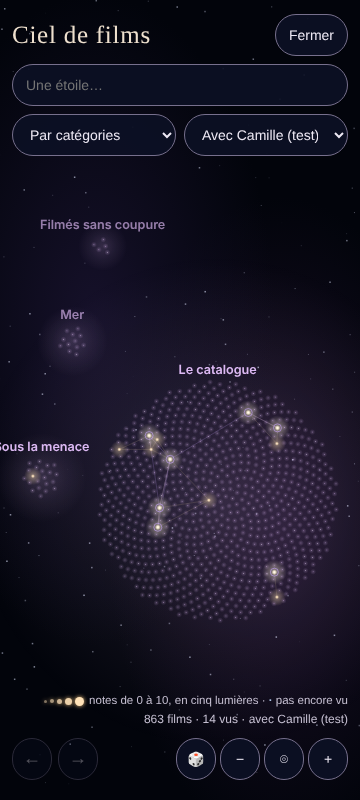
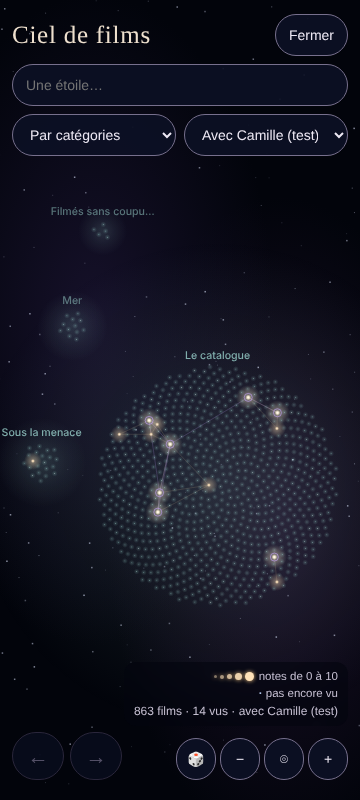
Ciné-club : idées du 24 octobre au soir (filtres, express, ciel)
Claude-Session: https://claude.ai/code/session_01SvDWCy7QeYxQDQ8J7KSUQg

diff --git a/carnet-de-films/index.html b/carnet-de-films/index.html
@@ -58,6 +58,14 @@ header.top::after{content:"";justify-self:center;width:min(176px,55%);height:8px
 .chip.env[aria-pressed="true"]{background:var(--k-s-F9E3A8);color:var(--k-s-4A3300);border-color:var(--k-b-C8963A);border-style:solid;}
 .lbl{flex:none;align-self:center;font-size:12px;font-weight:600;letter-spacing:.06em;text-transform:uppercase;color:var(--muted);padding-right:2px;}
 #filters{flex-wrap:nowrap;gap:5px;}
+.fwrap{position:relative;display:flex;}
+.fbtn{white-space:nowrap;}
+.fbtn.on{border-color:var(--gold);}
+#filters.fmenu{position:absolute;z-index:12;top:calc(100% + 6px);right:0;display:grid;gap:6px;min-width:180px;padding:8px;background:var(--paper);border:1.5px solid var(--line);border-radius:14px;box-shadow:0 10px 30px -8px rgba(0,0,0,.35);}
+#filters.fmenu[hidden]{display:none!important;}
+html body #filters.fmenu:not([hidden]){display:grid;}
+#filters.fmenu .chip{justify-content:flex-start;text-align:left;font-size:14px;padding:9px 12px;}
+body.autre .fwrap{display:none;}
 #filters .chip{padding:7px 9px;font-size:12.5px;}
 @media (max-width:345px){#filters{flex-wrap:wrap;}}
 #envies .chip{padding:7px 11px;font-size:13px;}
@@ -1040,11 +1048,16 @@ section[data-auto="classement"] .stars button{transform:scale(.88);}
 .xp-seen{display:grid;grid-template-columns:repeat(3,minmax(0,1fr));gap:8px;}
 .xp-b{min-height:54px;border:1.5px solid var(--line);border-radius:14px;background:var(--paper);color:var(--ink);font:600 16px/1.1 var(--font);cursor:pointer;}
 .xp-b.no{min-height:50px;}
-.xp-two{display:grid;grid-template-columns:1fr 1fr;gap:8px;}
-.xp-syn{margin:2px 0 0;max-width:36em;font-size:14.5px;line-height:1.4;color:var(--ink);opacity:.86;}
+.xp-syn{margin:0;max-width:34em;font-size:13px;line-height:1.35;color:var(--muted);}
+.xp-pw{position:relative;}
+.xp-list{position:absolute;top:8px;right:-46px;width:34px;height:34px;border-radius:50%;border:1.5px solid var(--line);background:var(--paper);color:var(--muted);font:600 18px/1 var(--font);cursor:pointer;opacity:.85;}
+.xp-list[aria-pressed="true"]{color:var(--ink);border-color:var(--gold);opacity:1;}
+.xp-n10{display:grid;grid-template-columns:repeat(10,minmax(0,1fr));gap:4px;}
+.xp-n10 button{min-height:34px;border:1px solid var(--line);border-radius:8px;background:transparent;color:var(--muted);font:600 13px/1 var(--font);cursor:pointer;padding:0;}
+.xp-small button[aria-expanded="true"]{color:var(--ink);}
 .xp-seen .xp-b:nth-child(1){border-color:var(--gold);}
-.xp-small{display:flex;justify-content:space-between;gap:6px;flex-wrap:wrap;}
-.xp-small button{border:0;background:transparent;color:var(--muted);font:600 13.5px/1.2 var(--font);padding:8px 4px;cursor:pointer;}
+.xp-small{display:flex;justify-content:center;gap:0 10px;flex-wrap:wrap;}
+.xp-small button{border:0;background:transparent;color:var(--muted);font:600 13px/1.2 var(--font);padding:7px 3px;cursor:pointer;}
 .xp-small button:disabled{opacity:.35;}
 .xp-imp{justify-self:center;border:0;background:transparent;color:var(--muted);text-decoration:underline;font:500 13px/1.3 var(--font);cursor:pointer;padding:6px;}
 .xp-reward{display:grid;gap:10px;}
@@ -1275,19 +1288,34 @@ html.th-neon .sky{background:radial-gradient(ellipse at 26% 40%,#16112a 0,transp
 .sky-legend .sl-lv i:nth-child(1){width:3px;height:3px;opacity:.5;}.sky-legend .sl-lv i:nth-child(2){width:4px;height:4px;opacity:.65;}.sky-legend .sl-lv i:nth-child(3){width:5px;height:5px;opacity:.8;}.sky-legend .sl-lv i:nth-child(4){width:7px;height:7px;opacity:.92;}.sky-legend .sl-lv i:nth-child(5){width:9px;height:9px;}
 .sky-zoom{position:absolute;bottom:max(20px,env(safe-area-inset-bottom));right:18px;display:flex;gap:6px;}
 .sky-zoom button{min-width:42px;padding:8px;}
-.sky-info{position:absolute;right:18px;bottom:calc(max(20px,env(safe-area-inset-bottom)) + 52px);max-width:min(330px,calc(100% - 36px));display:grid;gap:3px;justify-items:end;text-align:right;pointer-events:none;}
-.sky-legend{margin:0;font-size:12.5px;line-height:1.4;color:#c5bfd1;}
+.sky-info{position:absolute;right:18px;bottom:calc(max(20px,env(safe-area-inset-bottom)) + 54px);display:grid;gap:2px;justify-items:end;text-align:right;pointer-events:none;padding:6px 10px;border-radius:12px;background:rgba(4,5,14,.62);-webkit-backdrop-filter:blur(4px);backdrop-filter:blur(4px);}
+.sky-legend{margin:0;font-size:12px;line-height:1.45;color:#c5bfd1;display:grid;justify-items:end;}
+.sky-legend > span{white-space:nowrap;}
 .sky-legend .sl-b{color:#ffe1a7;}.sky-legend .sl-v{color:#f7d5aa;font-size:10px;}.sky-legend .sl-p{color:#abc1e3;font-weight:700;}
 .sky-caption{font-size:12px;color:#c5bfd1;}
 .sky-nav{position:absolute;left:18px;bottom:max(20px,env(safe-area-inset-bottom));display:flex;gap:6px;}
-.sky-nav button{min-width:46px;padding:8px;font-size:18px;}
-.sky-nav button:disabled{opacity:.35;cursor:default;}
-@media(max-width:600px){.sky-info{right:12px;font-size:11.5px;}.sky-legend{font-size:11.5px;}.sky-nav{left:12px;}.sky-zoom{right:12px;gap:5px;}.sky-zoom button,.sky-nav button{min-width:40px;}}
+.sky .sky-nav button{min-width:52px;min-height:48px;padding:8px;font:700 21px/1 var(--font);background:#ffe6b0;color:#241500;border:0;box-shadow:0 0 16px rgba(255,220,160,.45);}
+.sky .sky-nav button:disabled{background:#0c1024e8;color:#77708d;border:1px solid #3c3650;box-shadow:none;opacity:.7;cursor:default;}
+html.sky-on.skycard .sky-nav{bottom:calc(var(--rsh,0px) + 10px);}
+@media(max-width:600px){.sky-info{right:12px;}.sky-legend{font-size:11.5px;}.sky-nav{left:12px;}.sky-zoom{right:12px;gap:5px;}.sky-zoom button{min-width:40px;}}
 /* Fiche ouverte depuis le ciel : compacte et translucide, le ciel reste visible et explorable au-dessus (ou à gauche). */
 html.sky-on #rsheet{max-height:min(52vh,460px);overflow:auto;gap:7px;padding:12px 14px calc(12px + env(safe-area-inset-bottom));background:color-mix(in srgb,var(--paper) 84%,transparent);-webkit-backdrop-filter:blur(10px);backdrop-filter:blur(10px);box-shadow:0 -10px 40px rgba(0,0,0,.45);}
 html.sky-on #rsheet .rs-t h3{font-size:19px;}
-html.sky-on #rsheet .rs-p{font-size:14.5px;}
-html.sky-on #rsheet .rs-seg button{font-size:13.5px;padding:9px 10px;}
+html.sky-on #rsheet .rs-k{padding-right:46px;}
+html.sky-on #rsheet #rsM{font-size:12px;opacity:.85;}
+html.sky-on #rsheet .rs-p{font-size:16px;line-height:1.45;margin:0;}
+html.sky-on #rsDetails > summary{display:none;}
+html.sky-on #rsheet #rsE{display:none;}
+html.sky-on #rsheet .rs-n{padding:5px 8px;gap:5px;border-width:1px;}
+html.sky-on #rsheet .rs-n .rs-l{font-size:12.5px;}
+html.sky-on #rsheet .rs-n b{font-size:17px;}
+html.sky-on #rsheet .rs-n .nstep{width:32px;height:32px;font-size:16px;}
+html.sky-on #rsheet .rs-c{width:28px;height:28px;font-size:12.5px;}
+html.sky-on #rsheet .rs-seg button{font-size:12.5px;padding:7px 9px;}
+.rs-dice{position:absolute;top:10px;right:12px;width:40px;height:40px;border-radius:50%;border:1.5px solid var(--line);background:var(--paper);font-size:19px;line-height:1;cursor:pointer;padding:0;}
+.rs-dice[hidden]{display:none;}
+.rs-sky .rs-est{margin:2px 0 0;font-size:11.5px;color:var(--muted);}
+.rs-sky .fimg{margin:0;}
 html.sky-on #rsheet .plf-b button{min-height:42px;}
 @media(min-width:900px){html.sky-on #rsheet{left:auto;right:16px;bottom:16px;width:380px;max-height:calc(100vh - 120px);border-radius:18px;margin:0;}}
 .rs-sky{display:grid;gap:6px;}
@@ -1470,14 +1498,15 @@ html.sky-on #rsheet{z-index:50;}
     <div class="row-tools">
       <div class="qwrap"><div class="qsug" id="qSug" role="listbox" aria-label="Suggestions de films" hidden></div><input type="search" id="q" data-txph="recherche.champ" placeholder="Film, cinéaste, thème…" aria-label="Chercher un film, un·e cinéaste ou un thème"><button type="button" class="qx" id="qx" aria-label="Effacer la recherche" hidden>✕</button></div>
       <button type="button" class="view" id="view" aria-pressed="false" title="Tous les films à la suite, du plus au moins susceptible de te plaire" hidden>Tout classé</button>
-      <button type="button" class="dice" id="dice" aria-label="Un film au hasard" title="Un film au hasard" aria-haspopup="dialog"><span class="dico">🎲</span></button>
-    </div>
-    <div class="chips" id="filters" role="group" aria-label="Filtrer">
+      <div class="fwrap"><button type="button" class="chip fbtn" id="fBtn" aria-expanded="false" aria-controls="filters" aria-haspopup="true">Filtres ▾</button>
+    <div class="chips fmenu" id="filters" role="group" aria-label="Filtrer" hidden>
       <button class="chip" data-f="all" data-tx="filtre.all" aria-pressed="true" title="Tous les films">Tous</button>
-      <button class="chip" data-f="todo" data-tx="filtre.todo" aria-pressed="false" title="Films sans réponse" aria-label="Films sans réponse">❓ Sans réponse</button>
-      <button class="chip" data-f="rate" data-tx="filtre.rate" aria-pressed="false" title="Films vus, pas encore notés sur 10" aria-label="Films vus, pas encore notés sur 10">☆ Vus, pas notés</button>
+      <button class="chip" data-f="todo" data-tx="filtre.todo" aria-pressed="false" title="Films sans réponse" aria-label="Films sans réponse">Sans réponse</button>
+      <button class="chip" data-f="rate" data-tx="filtre.rate" aria-pressed="false" title="Films vus, pas encore notés sur 10" aria-label="Films vus, pas encore notés sur 10">Vus, pas notés</button>
       <button class="chip" data-f="seen" data-tx="filtre.seen" aria-pressed="false" title="Films déjà vus">Vus</button>
       <button class="chip" data-f="no" data-tx="filtre.no" aria-pressed="false">À voir</button>
+    </div></div>
+      <button type="button" class="dice" id="dice" aria-label="Un film au hasard" title="Un film au hasard" aria-haspopup="dialog"><span class="dico">🎲</span></button>
     </div>
     <div class="chips" id="envies" role="group" aria-label="Rechercher par envies" hidden></div>
     <p class="mvinfo" id="mvinfo" hidden></p>
@@ -1490,7 +1519,7 @@ html.sky-on #rsheet{z-index:50;}
 <section class="sky" id="sky" role="dialog" aria-modal="true" aria-labelledby="skyTitle" hidden>
   <canvas id="skyCanvas" tabindex="0" role="img" aria-label="Ciel de films. La recherche permet de choisir une étoile ; les flèches déplacent le ciel et les boutons changent le zoom."></canvas>
   <div class="sky-tools"><h2 id="skyTitle">Ciel de films</h2><div class="sky-search"><input type="search" id="skySearch" placeholder="Une étoile…" aria-label="Chercher un film dans le ciel" autocomplete="off" aria-controls="skyResults"><div class="sky-results" id="skyResults" hidden></div></div><select id="skyMode" aria-label="Ranger le ciel par"><option value="cat">Par catégories</option><option value="mv">Par courants</option><option value="dec">Par décennies</option></select><select id="skyMember" aria-label="Superposer le ciel d'un membre"><option value="">Mon ciel seul</option></select><button type="button" id="skyClose" aria-label="Fermer le ciel">Fermer</button></div>
-  <div class="sky-info"><p class="sky-legend"><span class="sl-lv" aria-hidden="true"><i></i><i></i><i></i><i></i><i></i></span> notes de 0 à 10, en cinq lumières · <span class="sl-p">·</span> pas encore vu</p><div class="sky-caption" id="skyCaption" role="status">Le ciel se dessine…</div></div><button type="button" class="sky-pick" id="skyPick" hidden></button><div class="sky-label" id="skyLabel" hidden></div>
+  <div class="sky-info"><p class="sky-legend"><span><span class="sl-lv" aria-hidden="true"><i></i><i></i><i></i><i></i><i></i></span> notes de 0 à 10</span><span><span class="sl-p">·</span> pas encore vu</span></p><div class="sky-caption" id="skyCaption" role="status">Le ciel se dessine…</div></div><button type="button" class="sky-pick" id="skyPick" hidden></button><div class="sky-label" id="skyLabel" hidden></div>
   <div class="sky-nav" role="group" aria-label="Endroits du ciel déjà visités"><button type="button" id="skyBack" aria-label="Revenir à l'endroit précédent" disabled>←</button><button type="button" id="skyFwd" aria-label="Aller à l'endroit suivant" disabled>→</button></div>
   <div class="sky-zoom"><button type="button" id="skyDice" aria-label="Un film pas encore vu dans cette constellation" title="Un film pas vu dans cette constellation">🎲</button><button type="button" id="skyOut" aria-label="Éloigner le ciel">−</button><button type="button" id="skyReset" aria-label="Retrouver tout le ciel">⌾</button><button type="button" id="skyIn" aria-label="Rapprocher le ciel">+</button></div>
 </section>
@@ -1536,7 +1565,7 @@ html.sky-on #rsheet{z-index:50;}
   <div class="plf-b" id="envDone" hidden><button type="button" class="plf-no" id="envClear">C'est envoyé : vider la liste</button></div>
 </div>
 <div class="sheet" id="rsheet" role="dialog" aria-modal="false" aria-labelledby="rs-h" hidden>
-  <div class="rs-k" id="rsK"></div>
+  <div class="rs-k" id="rsK"></div><button type="button" class="rs-dice" id="rsDice" hidden aria-label="Un autre film pas vu dans cette constellation" title="Un autre film pas vu ici">🎲</button>
   <div class="rs-t"><h3 id="rs-h"></h3><span class="estp" id="rsE" hidden></span></div>
   <div class="m" id="rsM"></div>
   <div id="rsAv"></div>
@@ -3730,7 +3759,7 @@ est + (ro ? '<span class="ro">' + ro + '</span>' : "") +
   function appCopy(x){ x = x || {}; return { t:Object.assign({}, x.t || {}), c:JSON.parse(JSON.stringify(x.c || {})), o:JSON.parse(JSON.stringify(x.o || {})) }; }
   var ED_TOP = [["header", "Titre du site", function(){ return [document.querySelector("header.top")]; }], ["bar", "Boutons, recherche et filtres", function(){ return [document.querySelector(".bar")]; }], ["toc", "Catégories", function(){ return [$("toc"), $("mvnav")]; }]];
   var ED_BAR = [["comptes", "Boutons (communauté, compte…)", function(){ return [document.querySelector(".ccbar")]; }], ["compteurs", "Compteurs", function(){ return [document.querySelector(".stats"), document.querySelector(".progress")]; }],
-    ["recherche", "Recherche", function(){ return [document.querySelector(".hint-q"), document.querySelector(".row-tools")]; }], ["filtres", "Filtres", function(){ return [$("filters"), $("envies"), $("mvinfo")]; }]];
+    ["recherche", "Recherche", function(){ return [document.querySelector(".hint-q"), document.querySelector(".row-tools")]; }], ["filtres", "Filtres", function(){ return [$("envies"), $("mvinfo")]; }]];
   var ED_COL = [["--bg", "Fond de la page"], ["--paper", "Fond des cartes"], ["--ink", "Texte"], ["--muted", "Texte secondaire"], ["--line", "Bordures"], ["--vu", "Couleur « Vu »"], ["--gold", "Étoiles et doré"]];
   function edOrder(list, saved){ var keys = list.map(function(x){ return x[0]; }), o = (saved || []).filter(function(k){ return keys.indexOf(k) >= 0; }); keys.forEach(function(k){ if (o.indexOf(k) < 0) o.push(k); }); return o; }
   function appApply(){
@@ -3930,11 +3959,15 @@ est + (ro ? '<span class="ro">' + ro + '</span>' : "") +
   function xpCardHtml(){
     var id = XP.q[XP.i], f = id && films[id];
     if (!f) return '<div class="xp-reward"><p class="xp-big">C\'est tout pour l\'instant !</p><p class="xp-note">Tu as répondu à tous les films proposés. Ta boussole est précise à ' + boussolePct(ratedCount()) + ' %.</p>' + xpRewardHtml().replace(/<button type="button" class="xp-main alt" data-xpgo="1">Continuer<\/button>/, "") + '</div>';
-    return '<div class="xp-card" data-film="' + esc(id) + '"><div class="xp-poster" data-id="' + esc(id) + '"><span>' + esc(f.t) + '</span></div>' +
+    // L'essentiel en grand : l'affiche, le titre et quatre boutons. Le reste (liste, note sur 10, oublié) reste discret, pour qui veut être plus précis.
+    var notes = ""; for (var n = 1; n <= 10; n++) notes += '<button type="button" data-xp="' + n + '" aria-label="Vu, noté ' + n + ' sur 10">' + n + '</button>';
+    return '<div class="xp-card" data-film="' + esc(id) + '"><div class="xp-pw"><div class="xp-poster" data-id="' + esc(id) + '"><span>' + esc(f.t) + '</span></div>' +
+      '<button type="button" class="xp-list" data-xplist="1" aria-pressed="' + !!LISTE[id] + '" aria-label="' + (LISTE[id] ? "Retirer de ma liste" : "Ajouter à ma liste") + '" title="' + (LISTE[id] ? "Dans ma liste" : "Ajouter à ma liste") + '">' + (LISTE[id] ? "✓" : "+") + '</button></div>' +
       '<h3>' + esc(f.t) + '</h3><p class="xp-meta">' + esc([f.y, f.d].filter(Boolean).join(" · ")) + '</p>' + (xpSyn(f) ? '<p class="xp-syn">' + esc(xpSyn(f)) + '</p>' : "") + '</div>' +
-      '<div class="xp-btns"><div class="xp-two"><button type="button" class="xp-b no" data-xp="pv">Pas vu</button><button type="button" class="xp-b no" data-xp="ou">Vu mais oublié</button></div>' +
+      '<div class="xp-btns"><button type="button" class="xp-b no" data-xp="pv">Pas vu</button>' +
       '<div class="xp-seen"><button type="button" class="xp-b" data-xp="9">Adoré</button><button type="button" class="xp-b" data-xp="7">Bien</button><button type="button" class="xp-b" data-xp="4">Pas aimé</button></div></div>' +
-      '<div class="xp-small"><button type="button" data-xpundo="1"' + (XP.hist.length ? "" : " disabled") + '>← Annuler</button><button type="button" data-xp="vu">Vu, sans avis</button><button type="button" data-xp="skip">Passer</button></div>';
+      '<div class="xp-small"><button type="button" data-xpundo="1"' + (XP.hist.length ? "" : " disabled") + '>← Annuler</button><button type="button" data-xp="vu">Vu, sans avis</button><button type="button" data-xp="ou">Vu mais oublié</button><button type="button" data-xpn="1" aria-expanded="' + !!XP.notes + '">Noter /10</button><button type="button" data-xp="skip">Passer</button></div>' +
+      (XP.notes ? '<div class="xp-n10" role="group" aria-label="Vu, avec une note sur 10">' + notes + '</div>' : "");
   }
   function xpRender(){
     var body = $("xpBody"), n = ratedCount(), pct = boussolePct(n);
@@ -3981,6 +4014,15 @@ est + (ro ? '<span class="ro">' + ro + '</span>' : "") +
     var t = ev.target.closest("button"); if (!t) return;
     if (t.dataset.xpclose) { xpClose(); return; }
     if (t.dataset.xp) { xpAnswer(t.dataset.xp); return; }
+    if (t.dataset.xpn) { XP.notes = !XP.notes; xpRender(); return; }
+    if (t.dataset.xplist) {
+      var lid = XP.q[XP.i]; if (!lid) return;
+      if (LISTE[lid]) delete LISTE[lid]; else LISTE[lid] = new Date().toISOString();
+      if (HASLIST) { var ancX = anchors(null); quickRender(lid); restore(ancX); } else refreshFilm(lid);
+      saveList(lid); t.setAttribute("aria-pressed", LISTE[lid] ? "true" : "false"); t.textContent = LISTE[lid] ? "✓" : "+";
+      t.setAttribute("aria-label", LISTE[lid] ? "Retirer de ma liste" : "Ajouter à ma liste"); t.title = LISTE[lid] ? "Dans ma liste" : "Ajouter à ma liste";
+      setStatus((films[lid] || {}).t + (LISTE[lid] ? " : ajouté à ma liste" : " : retiré de ma liste")); return;
+    }
     if (t.dataset.xpundo) { xpUndo(); return; }
     if (t.dataset.xpgo) { XP.reward = false; xpRender(); return; }
     if (t.dataset.xppeer) { xpClose(); if (CC.openMembers) CC.openMembers(t.dataset.xppeer); return; }
@@ -5611,8 +5653,14 @@ est + (ro ? '<span class="ro">' + ro + '</span>' : "") +
     if (filter !== "all" && !SHOW && !query) { SHOW = { k:"all" }; AUTO_ALL = true; }
     else if (filter === "all" && AUTO_ALL && SHOW && SHOW.k === "all") { SHOW = null; AUTO_ALL = false; }
     document.querySelectorAll("#filters .chip").forEach(function(x){ x.setAttribute("aria-pressed", x === c ? "true" : "false"); });
-    renderAll(); toList();
+    fMenu(false); renderAll(); toList();
   });
+  // Un seul bouton « Filtres » : les cinq filtres s'ouvrent dessous ; le bouton dit lequel est actif.
+  function fBtnLabel(){ var on = document.querySelector('#filters .chip[aria-pressed="true"]'), b = $("fBtn"); if (!b) return; var f = on ? on.dataset.f : "all"; b.textContent = f === "all" ? "Filtres ▾" : "Filtre : " + on.textContent.trim() + " ▾"; b.classList.toggle("on", f !== "all"); }
+  function fMenu(open){ $("filters").hidden = !open; $("fBtn").setAttribute("aria-expanded", open ? "true" : "false"); fBtnLabel(); }
+  $("fBtn").addEventListener("click", function(ev){ ev.stopPropagation(); fMenu($("filters").hidden); });
+  document.addEventListener("click", function(ev){ if (!$("filters").hidden && !(ev.target.closest && ev.target.closest(".fwrap"))) fMenu(false); });
+  new MutationObserver(fBtnLabel).observe($("filters"), { subtree:true, attributes:true, attributeFilter:["aria-pressed"] });
   function showPicked(){
     // Les envies passent à la ligne : il n'y a plus rien à faire défiler.
   }
@@ -5954,7 +6002,7 @@ est + (ro ? '<span class="ro">' + ro + '</span>' : "") +
   // Tirage au sort : dans tout le carnet (le dé du haut), ou dans la liste affichée (le dé de la liste) ; « Encore » reste dans la même liste.
   var RND_SRC = null;
   function pickRandom(src){
-    $("rsAgain").hidden = false; $("rsSky").hidden = true;
+    $("rsAgain").hidden = false; $("rsSky").hidden = true; $("rsDice").hidden = true;
     if (src && src.ids) RND_SRC = src; else if (src !== "again") RND_SRC = null;
     var ids = RND_SRC ? RND_SRC.ids : rndPool();
     if (!ids.length) { setStatus("Aucun film à tirer au sort avec ce filtre."); return; }
@@ -6084,11 +6132,13 @@ est + (ro ? '<span class="ro">' + ro + '</span>' : "") +
     });
     return { lists:Object.keys(all).map(function(k){ return all[k]; }), of:of };
   }
+  // Teintes de planètes : Uranus (vert d'eau), Saturne (or pâle), Neptune (bleu), Mars (rouille), Jupiter (ocre), Vénus (crème), un violet doux, Mercure (gris chaud).
+  var SKY_CAT = ["#9fd9d2", "#e6cf9c", "#7fa6e0", "#d48c6c", "#c9a27a", "#f0e1bd", "#a99bd6", "#b9b0a6"];
   var SKY_PAL = ["#f3dcb4", "#9fe0d2", "#a9c4ff", "#f5b8d0", "#c7b3ff", "#ffc28a", "#b8e3a1", "#ffd6f0", "#8fd3ff", "#e8c3ff"];
   function skyColor(fam){
     if (fam.indexOf("mvf:") === 0) return SKY_PAL[skyHash(fam) % SKY_PAL.length];
-    // Par catégories : les mêmes teintes douces que pour les courants, une par famille de listes.
-    if (SKY.mode === "cat") return SKY_PAL[skyHash("cat:" + fam) % SKY_PAL.length];
+    // Par catégories : une teinte de planète par famille de listes, sans rose ni lilas (un seul violet).
+    if (SKY.mode === "cat") return SKY_CAT[(SKY.famIdx && SKY.famIdx[fam] != null ? SKY.famIdx[fam] : skyHash(fam)) % SKY_CAT.length];
     var f = FAM_OF[fam] || { id:fam }, p = (typeof famPal === "function" && famPal(f)) || null, c = (p && (p.ic || p.bord)) || f.bord || "";
     var dflt = { themes:"#f3dcb4", mouvements:"#9fe0d2", epoques:"#a9c4ff", ecole:"#f5b8d0", cours:"#c7b3ff", envies:"#ffc28a", sante:"#b8e3a1" };
     return /^#[0-9a-f]{6}$/i.test(c) ? c : dflt[fam] || "#d9cbe6";
@@ -6111,6 +6161,9 @@ est + (ro ? '<span class="ro">' + ro + '</span>' : "") +
     if (SKY.sig === signature) return;
     SKY.sig = signature; ++SKY.gen; var n = ids.length;
     if (!n) { SKY.points = []; SKY.groups = []; skySchedule(); return; }
+    // Familles de listes, de la plus grande à la plus petite : chacune reçoit sa teinte, sans doublon tant qu'il en reste.
+    var famN = {}; G.lists.forEach(function(g){ famN[g.fam] = (famN[g.fam] || 0) + g.ids.length; });
+    SKY.famIdx = {}; Object.keys(famN).sort(function(a, b){ return famN[b] - famN[a] || (a < b ? -1 : 1); }).forEach(function(f, i){ SKY.famIdx[f] = i; });
     var GA = Math.PI * (3 - Math.sqrt(5)), GAP = 90, groups = G.lists.map(function(g){
       var list = g.ids.slice().sort(function(a, b){ return skyHash(a) - skyHash(b); });
       return { id:g.id, name:g.name, fam:g.fam, color:skyColor(g.fam), ids:list, n:list.length, r:Math.sqrt(list.length) * 13 + 10, v:skyVec(list) };
@@ -6286,11 +6339,20 @@ est + (ro ? '<span class="ro">' + ro + '</span>' : "") +
     } else if (pick) pick.hidden = true;
     c.globalAlpha = 1; c.textAlign = "center"; c.textBaseline = "bottom";
     // Les noms ne se chevauchent jamais : les plus grandes constellations d'abord ; les autres apparaissent en rapprochant le ciel.
-    var boxes = [], fs = Math.max(11, Math.min(16, 11 + z * 5)); c.font = "600 " + fs + "px system-ui,sans-serif";
+    // Noms petits et discrets ; un nom long est raccourci tant qu'on n'a pas rapproché le ciel. Chaque nom essaie au-dessus, puis en dessous de sa constellation.
+    var boxes = [], zr = z / (SKY.zfit || z), fs = Math.max(9.5, Math.min(13, 9 + zr * 1.6)); c.font = "500 " + fs + "px system-ui,sans-serif";
     (SKY.groups || []).slice().sort(function(a, b){ return b.n - a.n; }).forEach(function(g){
-      if (!g.name) return; var s = skyScreen({ x:g.lx, y:g.ly }); if (s.x < -160 || s.x > SKY.w + 160 || s.y < -40 || s.y > SKY.h + 60) return;
-      var w = c.measureText(g.name).width, bx = { l:s.x - w / 2 - 4, r:s.x + w / 2 + 4, t:s.y - fs - 3, b:s.y + 3 }; if (boxes.some(function(o){ return bx.l < o.r && bx.r > o.l && bx.t < o.b && bx.b > o.t; })) return; boxes.push(bx);
-      var lit = SKY.points.some(function(p){ return p.g === g.id && isSeen((answers[p.id] || {}).etat); }); c.fillStyle = g.color || "#f3dcb4"; c.globalAlpha = lit ? .95 : .62; c.fillText(g.name, s.x, s.y);
+      if (!g.name) return; var name = g.name, max = zr < 1.8 ? 18 : zr < 3 ? 28 : 99;
+      if (name.length > max) name = name.slice(0, max - 1).replace(/[\s,;:–-]+$/, "") + "…";
+      var w = c.measureText(name).width, spots = [{ x:g.lx, y:g.ly }, { x:g.x, y:g.y + g.r + 14 / z + fs / z }], put = null;
+      spots.some(function(sp){
+        var s = skyScreen(sp); if (s.x < -160 || s.x > SKY.w + 160 || s.y < -40 || s.y > SKY.h + 60) return false;
+        var bx = { l:s.x - w / 2 - 3, r:s.x + w / 2 + 3, t:s.y - fs - 2, b:s.y + 2 };
+        if (boxes.some(function(o){ return bx.l < o.r && bx.r > o.l && bx.t < o.b && bx.b > o.t; })) return false;
+        put = { s:s, bx:bx }; return true;
+      });
+      if (!put) return; boxes.push(put.bx);
+      var lit = SKY.points.some(function(p){ return p.g === g.id && isSeen((answers[p.id] || {}).etat); }); c.fillStyle = g.color || "#f3dcb4"; c.globalAlpha = lit ? .78 : .5; c.fillText(name, put.s.x, put.s.y);
     });
     c.globalAlpha = 1; $("skyCaption").textContent = SKY.points.length + " films · " + Object.keys(answers).filter(function(id){ return SKY.byId[id] && isSeen((answers[id] || {}).etat); }).length + " vus" + (other ? " · avec " + other.pseudo : "");
     skyCanvas.dataset.renderMs = (performance.now() - started).toFixed(2);
@@ -6301,7 +6363,7 @@ est + (ro ? '<span class="ro">' + ro + '</span>' : "") +
     $("skyMember").innerHTML=html;$("skyMember").value=selected;if($("skyMember").value!==selected)SKY.member="";
   }
   function skyOpen(){if(!$("rsheet").hidden)$("rsClose").click();skyEl.hidden=false;document.documentElement.classList.add("sky-on");document.querySelector(".wrap").inert=true;$("skyMode").value=SKY.mode;SKY.hist=[];SKY.hi=-1;skyNavPaint();skyResize();skyMembers();skyModel();if(SKY.ready)skyFit();skyCanvas.focus({preventScroll:true});skyTick();}
-  function skyClose(){clearTimeout(SKY.tick);SKY.focus=null;SKY.sel="";$("rsSky").hidden=true;$("rsGo").textContent="Voir la fiche ↓";skyEl.hidden=true;skyEl.inert=false;document.querySelector(".wrap").inert=false;document.documentElement.classList.remove("sky-on");$("rsheet").hidden=true;$("skyToggle").focus({preventScroll:true});}
+  function skyClose(){clearTimeout(SKY.tick);SKY.focus=null;SKY.sel="";$("rsSky").hidden=true;$("rsDice").hidden=true;$("rsGo").textContent="Voir la fiche ↓";skyEl.hidden=true;skyEl.inert=false;document.querySelector(".wrap").inert=false;document.documentElement.classList.remove("sky-on");$("rsheet").hidden=true;$("skyToggle").focus({preventScroll:true});}
   function skyGroupOf(id){var p=SKY.byId[id];return p?(SKY.groups||[]).filter(function(g){return g.id===p.g;})[0]:null;}
   // Une étoile touchée : la fiche du film, compacte, sans quitter le ciel (on peut continuer à l'explorer derrière).
   function skyFilm(id,keepCam){
@@ -6314,11 +6376,19 @@ est + (ro ? '<span class="ro">' + ro + '</span>' : "") +
   function skyCard(id){
     var f=films[id]||{},g=skyGroupOf(id),el=$("rsSky"),mv=MV_INFO[f.mv]?MV_INFO[f.mv].label:"";
     var left=g?g.ids.filter(function(x){return x!==id&&skyUnseen(x);}).length:0;
-    el.innerHTML=(mv?'<p class="rs-mv">Courant : '+esc(mv)+'</p>':"")+mbrHtml({id:id}).replace(/<button type="button" class="mbr" data-mbr="[^"]*">([^<]*)<\/button>/g,'<span class="mbr">$1</span>')+
+    var ev=isMine()?estOf(f):0;SKY.img=SKY.img||{};
+    el.innerHTML=mbrHtml({id:id}).replace(/<button type="button" class="mbr" data-mbr="[^"]*">([^<]*)<\/button>/g,'<span class="mbr">$1</span>')+
       '<div class="rs-row"><button type="button" data-skyl="1" aria-pressed="'+!!LISTE[id]+'">'+(LISTE[id]?"✓ Ma liste":"+ Ma liste")+'</button>'+
-      (left?'<button type="button" data-skydice="1">🎲 Un autre pas vu ici ('+left+')</button>':"")+'</div>';
-    el.hidden=false;
+      '<button type="button" data-skyimg="1" aria-expanded="'+!!SKY.img[id]+'">🎞 '+(SKY.img[id]?"Masquer les images":"Images du film")+'</button></div>'+
+      (SKY.img[id]?imgBoxHtml(id):"")+
+      (ev?'<p class="rs-est">Estimé '+ev+'/10 d\'après tes goûts</p>':"");
+    el.hidden=false;$("rsDice").hidden=!left;$("rsDice").title=left?"Un autre film pas vu ici ("+left+")":"";
+    if(SKY.img[id])fillImgs(id,true);
   }
+  // Sur téléphone, la fiche occupe le bas : les flèches remontent juste au-dessus d'elle.
+  if(window.ResizeObserver)new ResizeObserver(function(){skyCardSpace();}).observe($("rsheet"));
+  function skyCardSpace(){var c=$("rsheet"),on=!skyEl.hidden&&!c.hidden&&innerWidth<900;document.documentElement.classList.toggle("skycard",on);document.documentElement.style.setProperty("--rsh",on?c.getBoundingClientRect().height+"px":"0px");}
+  new MutationObserver(skyCardSpace).observe($("rsheet"),{attributes:true,attributeFilter:["hidden"]});
   function skyUnseen(id){var e=(answers[id]||{}).etat;return !(e==="vu"||e==="pas_fini"||e==="oublie");}
   // Le dé : un film pas encore vu dans la constellation choisie (ou la plus proche du centre de l'écran).
   function skyDice(){
@@ -6338,14 +6408,12 @@ est + (ro ? '<span class="ro">' + ro + '</span>' : "") +
   $("skyMember").addEventListener("change",function(){SKY.member=this.value;skySchedule();});
   $("skyMode").addEventListener("change",function(){SKY.mode=this.value;try{localStorage.setItem(SKY_MODE_KEY,SKY.mode);}catch(e){}SKY.focus=null;skyModel();});
   $("skyPick").addEventListener("click",function(){if(SKY.focus)skyFilm(SKY.focus.id);});
-  $("skySearch").addEventListener("input",function(){var out=$("skyResults"),q=this.value.trim(),matches=rankFilms(this.value,6);clearTimeout(SKY.qT);if(!q){out.hidden=true;return;}
-    // Le ciel glisse déjà vers le premier film trouvé pendant qu'on tape.
-    if(q.length>=2&&matches[0])SKY.qT=setTimeout(function(){var id=matches[0];if(SKY.focus&&SKY.focus.id===id)return;if(!$("rsheet").hidden){$("rsheet").hidden=true;$("rsSky").hidden=true;}$("skyPick").textContent=films[id].t+" · ouvrir la fiche ›";skyFly(id);},380);out.innerHTML=matches.map(function(id){return '<button type="button" data-skyfilm="'+esc(id)+'">'+esc(films[id].t)+' <small>'+esc([films[id].y,films[id].d].filter(Boolean).join(" · "))+'</small></button>';}).join("");out.hidden=!matches.length;});
+  $("skySearch").addEventListener("input",function(){var out=$("skyResults"),q=this.value.trim(),matches=rankFilms(this.value,6);clearTimeout(SKY.qT);if(!q){out.hidden=true;return;}out.innerHTML=matches.map(function(id){return '<button type="button" data-skyfilm="'+esc(id)+'">'+esc(films[id].t)+' <small>'+esc([films[id].y,films[id].d].filter(Boolean).join(" · "))+'</small></button>';}).join("");out.hidden=!matches.length;});
   $("skyResults").addEventListener("click",function(e){var b=e.target.closest("[data-skyfilm]");if(!b)return;this.hidden=true;clearTimeout(SKY.qT);var id=b.dataset.skyfilm;$("skySearch").blur();if(!$("rsheet").hidden){$("rsheet").hidden=true;$("rsSky").hidden=true;}$("skyPick").textContent=films[id].t+" · ouvrir la fiche ›";skyFly(id);});
-  $("skyBack").addEventListener("click",function(){skyNav(-1);});$("skyFwd").addEventListener("click",function(){skyNav(1);});$("skyDice").addEventListener("click",skyDice);
+  $("rsDice").addEventListener("click",skyDice);$("skyBack").addEventListener("click",function(){skyNav(-1);});$("skyFwd").addEventListener("click",function(){skyNav(1);});$("skyDice").addEventListener("click",skyDice);
   $("rsSky").addEventListener("click",function(e){
     var b=e.target.closest("button");if(!b||!RND)return;var id=RND;
-    if(b.dataset.skydice){skyDice();return;}
+    if(b.dataset.skyimg){SKY.img[id]=!SKY.img[id];skyCard(id);return;}
     if(b.dataset.skyl){if(LISTE[id])delete LISTE[id];else LISTE[id]=new Date().toISOString();if(HASLIST){var anc=anchors(null);quickRender(id);restore(anc);}else refreshFilm(id);saveList(id);skyCard(id);var again=$("rsSky").querySelector("[data-skyl]");if(again)again.focus({preventScroll:true});}
   });
   $("skySearch").addEventListener("keydown",function(e){if(e.key==="Enter"){var b=$("skyResults").querySelector("button");if(b){e.preventDefault();b.click();}}});
@@ -7094,7 +7162,7 @@ est + (ro ? '<span class="ro">' + ro + '</span>' : "") +
   function installed(){ return matchMedia("(display-mode: standalone)").matches || matchMedia("(display-mode: window-controls-overlay)").matches || navigator.standalone === true; }
   window.CC_APPLI = installed();
   if (window.CC_APPLI) document.documentElement.classList.add("appli");
-  if ("serviceWorker" in navigator && (location.protocol === "https:" || location.hostname === "localhost")) window.addEventListener("load", function(){ navigator.serviceWorker.register("sw.js", { updateViaCache:"none" }).then(function(reg){ reg.update(); }).catch(function(){}); });
+  if ("serviceWorker" in navigator && (location.protocol === "https:" || location.hostname === "localhost")) window.addEventListener("load", function(){ navigator.serviceWorker.register("sw.js", { updateViaCache:"none" }).catch(function(){}); });
   function show(){ var h = installed(); document.querySelectorAll("[data-appinst]").forEach(function(b){ b.hidden = h; }); }
   show();
   window.addEventListener("beforeinstallprompt", function(e){ e.preventDefault(); ask = e; show(); });

diff --git a/docs/CIEL.md b/docs/CIEL.md
@@ -101,3 +101,15 @@ grandes constellations sont nommées d'abord, les autres en rapprochant le ciel.
 - **Couleurs « Par catégories »** : les mêmes teintes douces que « Par courants ».
 - **Bas de l'écran** : légende au-dessus des boutons de zoom ; à gauche, flèches ← → pour
   revenir aux endroits du ciel déjà visités.
+
+## Idées du 24 octobre 2026 (soir)
+
+- Recherche : le ciel ne bouge qu'au choix d'un film dans la liste.
+- Couleurs « Par catégories » : teintes de planètes (Uranus, Saturne, Neptune, Mars, Jupiter,
+  Vénus, un violet doux, Mercure), une par famille de listes, sans rose ni lilas.
+- Noms des constellations plus petits et plus pâles, raccourcis tant qu'on n'a pas rapproché le
+  ciel ; un nom qui ne tient pas au-dessus essaie en dessous.
+- Fiche : dé en haut à droite, synopsis plus grand, infos plus petites, plus de « plus… » ni de
+  courant en bas, note plus compacte, estimation discrète en bas, bouton « Images du film ».
+- Légende sur deux lignes, sur un fond sombre, à droite ; flèches ← → dorées, au-dessus de la
+  fiche sur téléphone.

diff --git a/docs/INTERFACE.md b/docs/INTERFACE.md
@@ -87,3 +87,8 @@ Express (24 octobre 2026) : synopsis très court (première phrase, environ 150 
 « Vu mais oublié ». Le bouton « 📲 Installer l'appli » est en tête du menu Aa et sur l'écran
 d'accueil (« Choisissez votre affichage »). L'appli installée n'ouvre que le Ciné-club ; la
 Boussole des IA et Cap Logement restent sur le site général.
+
+Filtres (24 octobre 2026) : un seul bouton « Filtres ▾ » à côté de la recherche ; les cinq filtres
+s'ouvrent dessous, sans icône ; le bouton affiche le filtre actif. Express : en grand l'affiche, le
+titre, « Pas vu », « Adoré », « Bien », « Pas aimé » ; en discret « + » (ma liste) à côté de
+l'affiche, « Vu mais oublié », « Noter /10 » (1 à 10) près de « Vu, sans avis ».
